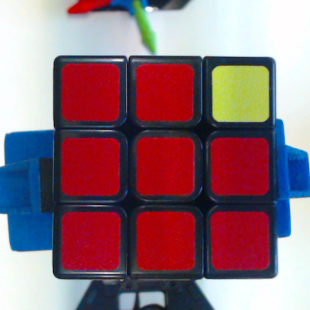
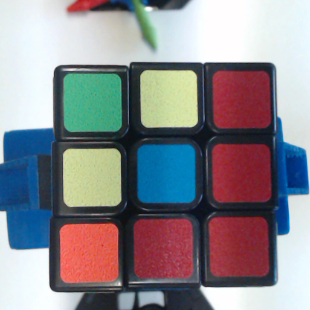
[LAB] 12.01.23 new min/max alg (buggy)

diff --git a/scripts/clean.py b/scripts/clean.py
@@ -29,7 +29,7 @@ def image_processing(i, img):
     if show_image_processing:
         if verbosity:
             cv2.imshow("Input " + str(Color(i)), img)
-            
+
         cv2.destroyAllWindows()
 
     ''' Stickers (Colour) search and binarisation via HSV channel '''
@@ -43,7 +43,7 @@ def image_processing(i, img):
     if show_image_processing:
         if verbosity:
             cv2.imshow("OR: " + str(Color(i)), bitwiseOr)
-            
+
         cv2.destroyAllWindows()
 
     ''' perform morphological filter (Erosion / Dilation) '''
@@ -67,7 +67,8 @@ def hsv(img_in, string, hsv_trackbar, hMin, hMax, sMin, sMax, vMin, vMax):
     """ Convert from RGB Image to HSV"""
     hsv_coloured = cv2.cvtColor(img_in, cv2.COLOR_BGR2HSV)
     if show_hsv:
-        if verbosity:cv2.imshow("HSV Image: " + string, hsv_coloured)
+        if verbosity:
+            cv2.imshow("HSV Image: " + string, hsv_coloured)
         # 
         cv2.destroyAllWindows()
 
@@ -100,7 +101,8 @@ def hsv(img_in, string, hsv_trackbar, hMin, hMax, sMin, sMax, vMin, vMax):
         mask = cv2.inRange(hsv_coloured, lower, upper)
         # mask1 = cv2.bitwise_not(mask1)
         if show_hsv:
-            if verbosity:cv2.imshow("Mask. " + string, mask)
+            if verbosity:
+                cv2.imshow("Mask. " + string, mask)
 
         # Defining the kernel size
         kernelSize = 1
@@ -114,7 +116,6 @@ def hsv(img_in, string, hsv_trackbar, hMin, hMax, sMin, sMax, vMin, vMax):
         if hsv_trackbar:
             k = cv2.waitKey(1) & 0xFF
             if k == 27:
-                
                 return medianBlurred_mask
         else:
             return medianBlurred_mask
@@ -123,7 +124,7 @@ def hsv(img_in, string, hsv_trackbar, hMin, hMax, sMin, sMax, vMin, vMax):
 
 def morphological(img_bitwise, i):
     # perform erosion on the image
-    kernel_size = 15
+    kernel_size = 20
     kernel = np.ones((kernel_size, kernel_size), np.uint8)
     img_erosion = cv2.erode(img_bitwise, kernel, iterations=1)
     if show_morphological:
@@ -131,17 +132,17 @@ def morphological(img_bitwise, i):
             cv2.imshow("Erosion: " + str(Color(i)), img_erosion)
 
     # perform dilation on the image
-    kernel_size = 10
+    kernel_size = 20
     kernel = np.ones((kernel_size, kernel_size), np.uint8)
     img_dilation = cv2.dilate(img_erosion, kernel, iterations=1)
     if show_morphological:
-        if verbosity:cv2.imshow("Dilation: " + str(Color(i)), img_dilation)
-        # 
+        if verbosity:
+            cv2.imshow("Dilation: " + str(Color(i)), img_dilation)
         cv2.destroyAllWindows()
     return img_erosion
 
 
-def find_cube_pos(i, img_input, img_cont):
+def find_sticker_pos(i, img_input, img_cont):
     all_cont = []
     img_draw = img_input.copy()
     img_drawing = img_input.copy()
@@ -232,21 +233,21 @@ def find_cube_pos(i, img_input, img_cont):
             cv2.circle(img_drawing, (cX, cY), 3, (0, 0, 0), -1)  # draw circle (center)
             cv2.putText(img_drawing, str(no_sticker), (cX - 20, cY - 20), cv2.FONT_HERSHEY_TRIPLEX, 0.5,
                         (250, 250, 100), 1)
-            if verbosity: print("No Sticker: " + str(no_sticker) + " cx: " + str(cX) + " cY: " + str(
-                cY) + " aspectratio " + str(
-                aspect_ratio))
+            if verbosity:
+                print("No Sticker: " + str(no_sticker) + " cx: " + str(cX) + " cY: " + str(cY) + " aspectratio " + str(
+                    aspect_ratio))
             no_sticker += 1
-
     if no_sticker != 0:
         cv2.imshow("Contours with good conditions", img_drawing)
 
         # Sorting the x-coordinates of the contours
         result_x = sorted(conturen, key=lambda l: l[0])
-        if verbosity: print("Sorted center-X coordinates: ", result_x)
-
+        if verbosity:
+            print("Sorted center-X coordinates: ", result_x)
         # Sorting the x-coordinates of the contours
         result_y = sorted(conturen, key=lambda l: l[1])
-        if verbosity: print("Sorted center-Y coordinates: ", result_y)
+        if verbosity:
+            print("Sorted center-Y coordinates: ", result_y)
 
         # calculate the Median of the center coordinates, width and height of the contours
         cX_median = np.median(cx_values)
@@ -256,15 +257,18 @@ def find_cube_pos(i, img_input, img_cont):
 
         # check if the contours have neighbours in the x-coordinate
         index_contour_x = nearest_contours(result_x, cX_median, width_median, 0)
-        if verbosity: print("index", index_contour_x)
+        if verbosity:
+            print("index", index_contour_x)
 
         # check if the contours have neighbours in the y-coordinate
         index_contour_y = nearest_contours(result_y, cY_median, height_median, 1)
-        if verbosity: print("index y", index_contour_y)
+        if verbosity:
+            print("index y", index_contour_y)
 
         # write the neighbour contours in an array
         result = set(index_contour_x + index_contour_y)
-        if verbosity: print("Result", result)
+        if verbosity:
+            print("Result", result)
 
         image_stickers_binary = np.zeros((img_draw.shape[0], img_draw.shape[1], 1), dtype=np.uint8)
 
@@ -305,14 +309,15 @@ def find_cube_pos(i, img_input, img_cont):
                 cv2.circle(img_draw, (cX, cY), 3, (0, 0, 0), -1)  # draw circle (center)
                 cv2.putText(img_draw, str(no_sticker), (cX - 20, cY - 20), cv2.FONT_HERSHEY_TRIPLEX, 0.5,
                             (250, 250, 100), 1)
-                if verbosity: print("No Sticker: " + str(no_sticker) + " cx: " + str(cX) + " cY: " + str(
-                    cY) + " Aspect Ratio " + str(
-                    aspect_ratio))
+                if verbosity:
+                    print("No Sticker: " + str(no_sticker) + " cx: " + str(cX) + " cY: " + str(
+                        cY) + " Aspect Ratio " + str(aspect_ratio))
 
                 cv2.rectangle(image_stickers_binary, (x, y), (x + w, y + h), 255, 2)  # draw bounding box
 
-        if verbosity:cv2.imshow("Neighbour Contours Image", img_draw)
-        # cv2.imshow("Neighbour Contours Binary Image", image_stickers_binary)
+        if verbosity:
+            cv2.imshow("Neighbour Contours Image", img_draw)
+        cv2.imshow("Neighbour Contours Binary Image", image_stickers_binary)
 
         cx_median = np.median(cx_values)
         cy_median = np.median(cy_values)
@@ -320,7 +325,7 @@ def find_cube_pos(i, img_input, img_cont):
         if verbosity:
             print("cx median", cx_median)
             print("cy median", cy_median)
-            
+
         # cv2.destroyAllWindows()
         return cx_values, cy_values, width_values, height_values, image_stickers_binary, rect_sticker
 
@@ -360,14 +365,16 @@ def roi_cube(i, img_in_bgr, image_stickers_binary, cX_values, cY_values, width_v
     # Median of all center values
     cX_Median = np.median(cX_values)
     cY_Median = np.median(cY_values)
-    if verbosity: print("Cx_median", cX_Median)
-    if verbosity: print("Cy_median", cY_Median)
+    if verbosity:
+        print("Cx_median", cX_Median)
+        print("Cy_median", cY_Median)
 
     # deviation of the width and height values of all contours
     cX_deviation = np.median(width_values)
     cY_deviation = np.median(height_values)
-    if verbosity: print("Cx_deviation", cX_deviation)
-    if verbosity: print("Cy_deviation", cY_deviation)
+    if verbosity:
+        print("Cx_deviation", cX_deviation)
+        print("Cy_deviation", cY_deviation)
 
     # calculate the start- and end-x values of the roi cube
     factor = 2.8
@@ -411,6 +418,46 @@ def roi_cube(i, img_in_bgr, image_stickers_binary, cX_values, cY_values, width_v
         cv2.imshow("ROI BGR: " + str(Color(i)), img_roi)
 
 
+def get_tilt(cY, cX, w_val, h_val):
+    """
+    sums smallest point distances in x, y directions for all points
+    returns tilt-per-sticker in pixels
+    """
+    tilt_y, tilt_x, step = 0, 0, 0
+
+    # get point list
+    pts = []
+    for i in range(len(cY)):
+        x, y = cX[i], cY[i]
+        pts.append([x, y])
+
+    # iterate every point distance
+    dx1, dy1, sx1, sy1 = [], [], [], []
+    for x1, y1 in pts:
+        dx2, dy2, sx2, sy2 = [], [], [], []
+        for x2, y2 in pts:
+            if (x1, y1) != (x2, y2):
+                diff_x = x1 - x2 if y2 > y1 else x2 - x1
+                diff_y = y1 - y2 if x2 > x1 else y2 - y1
+                dx2.append(diff_x)
+                dy2.append(diff_y)
+        mdx = np.mean([d for d in dx2 if abs(d) <= w_val / 2])
+        mdy = np.mean([d for d in dy2 if abs(d) <= h_val / 2])
+        # TODO (main): distance values dont work for slanted cube
+        sx = np.min([d for d in dx2 if abs(d) > w_val / 2])
+        sy = np.min([d for d in dy2 if abs(d) > h_val / 2])
+        dx1.append(mdx)
+        dy1.append(mdy)
+        sx1.append(abs(sx))
+        sy1.append(abs(sy))
+    tilt_x = np.mean(dx1)
+    tilt_y = np.mean(dy1)
+    step_x = np.min([d for d in sx1 if w_val / 2 < abs(d) < w_val * 2.5])
+    step_y = np.min([d for d in sy1 if h_val / 2 < abs(d) < h_val * 2.5])
+
+    return tilt_y, tilt_x, step_y, step_x
+
+
 def min_max_coordinates(i, copy_img, cX_values, cY_values, width_values, height_values, rect_sticker):
     img_in_bgr = copy_img.copy()
     # calculate mean width and height values
@@ -426,45 +473,58 @@ def min_max_coordinates(i, copy_img, cX_values, cY_values, width_values, height_
     max_cY = float(max(cY_values))
 
     # calculate the stickers center position above min-cx, min-cy, max-cx, max-cy
-    step_x = mean_width * 1.8
-    step_y = mean_height * 1.8
-    point = []
+    step_x = mean_width * 2
+    step_y = mean_height * 2
+    points = []
     stickers_rectangle = []
-    for number in range(0, 9):
-        if number == 0:
-            point.append([min_cX, min_cY])
-        if number == 1:
-            point.append([min_cX + step_x, min_cY])
-        if number == 2:
-            point.append([max_cX, min_cY])
-        if number == 3:
-            point.append([min_cX, min_cY + step_y])
-        if number == 4:
-            point.append([min_cX + step_x, min_cY + step_y])
-        if number == 5:
-            point.append([max_cX, min_cY + step_y])
-        if number == 6:
-            point.append([min_cX, max_cY])
-        if number == 7:
-            point.append([min_cX + step_x, max_cY])
-        if number == 8:
-            point.append([max_cX, max_cY])
+
+    tilt_y, tilt_x, step_y, step_x = get_tilt(cY_values, cX_values, mean_width, mean_height)
+
+    for y in range(0, 3):
+        for x in range(0, 3):
+            a = int(min_cX + step_x * x)
+            b = int(min_cY + step_y * y)
+            points.append([a, b])
+    """
+    for n in range(0, 9):
+        if n == 0:
+            points.append([min_cX, min_cY])
+        if n == 1:
+            points.append([min_cX + step_x, min_cY])
+        if n == 2:
+            points.append([max_cX, min_cY])
+        if n == 3:
+            points.append([min_cX, min_cY + step_y])
+        if n == 4:
+            points.append([min_cX + step_x, min_cY + step_y])
+        if n == 5:
+            points.append([max_cX, min_cY + step_y])
+        if n == 6:
+            points.append([min_cX, max_cY])
+        if n == 7:
+            points.append([min_cX + step_x, max_cY])
+        if n == 8:
+            points.append([max_cX, max_cY])
+    """
 
     # calculate the contours of the stickers
     fact_width = mean_width / 4.5
     fact_height = mean_height / 4.5
-    for number in range(0, 9):
-        stickers_rectangle.append([round(point[number][0] - fact_width), round(point[number][1] - fact_height),
-                                   round(point[number][0] + fact_width), round(point[number][1] + fact_height)])
+    for n in range(0, 9):
+        stickers_rectangle.append([round(points[n][0] - fact_width),
+                                   round(points[n][1] - fact_height),
+                                   round(points[n][0] + fact_width),
+                                   round(points[n][1] + fact_height)])
 
     # draw the stickers in the image
     for stickers in stickers_rectangle:
         x1, y1, x2, y2 = stickers
         cv2.rectangle(img_in_bgr, (int(x1), int(y1)), (int(x2), int(y2)), (180, 95, 180), 2)
-        #if verbosity:
-        cv2.imshow("Region for color samples: " + str(Color(i)), img_in_bgr)
+        if verbosity:
+            cv2.imshow("Region for color samples: " + str(Color(i)), img_in_bgr)
+            cv2.imshow("Region for color samples: " + str(Color(i)), img_in_bgr)
     cv2.waitKey(0)
-            
+
     return stickers_rectangle
 
 
@@ -486,7 +546,7 @@ def color_samples(i, copy_img, stickers, data_arr):
 
         data_arr[i][no_sticker][0] = start_x + (end_x - start_x) / 2  # x-Pos
         data_arr[i][no_sticker][1] = start_y + (end_y - start_y) / 2  # y-Pos
-        data_arr[i][no_sticker][2] = average_color[0] * 100 / 255
+        data_arr[i][no_sticker][2] = average_color[0]  # * 100 / 255
         data_arr[i][no_sticker][3] = average_color[1] - 128
         data_arr[i][no_sticker][4] = average_color[2] - 128
     return data_arr
@@ -503,7 +563,7 @@ def sticker_colours(data_arr):
             value = data_arr[i][r][2:]  # current sticker color info
             idx, color = find_nearest(centers, value)
             CubeDefStr += get_chars(idx)
-    
+
     cv2.destroyAllWindows()
     return_val = 0  # placeholder
     return return_val, CubeDefStr
@@ -542,9 +602,10 @@ def scan_cube():
         # perform binarisation via HSV and morphological filter
         img_morph = image_processing(i, img_in)
         # find cube position and stickers
-        cX, cY, width_values, height_values, image_stickers_binary, rect_sticker = find_cube_pos(i, img_in, img_morph)
+        cX, cY, width_values, height_values, image_stickers_binary, rect_sticker = find_sticker_pos(i, img_in,
+                                                                                                    img_morph)
         # draw roi cube
-        roi_cube(i, img_in, image_stickers_binary, cX, cY, width_values, height_values)
+        # roi_cube(i, img_in, image_stickers_binary, cX, cY, width_values, height_values)
         # if not all stickers could be recognised --> find min and max x and y- coordinates of the stickers
         stickers = min_max_coordinates(i, copy_img, cX, cY, width_values, height_values, rect_sticker)
         cv2.destroyAllWindows()
@@ -561,4 +622,3 @@ if __name__ == "__main__":
     _, cube = scan_cube()
     print(cube)
     print "scan result: %s (%ss)" % (cube, len(cube))
-    

diff --git a/scripts/solver_server.py b/scripts/solver_server.py
@@ -14,13 +14,14 @@ def check_solution(solStr):
         print('no solution')
         solution = solStr
         movecount = 0
-    elif solStr[len(solStr) - 2:] == 'f)':
+    elif solStr[-2:] == 'f)':
         print "\nSolution found: %s" % (solStr)
-        movecount = int(solStr[solStr.find('(') + 1: len(solStr) - 2])
-        solution = solStr[: len(solStr) - 6]
+        bracket = solStr.find('(')
+        movecount = int(solStr[bracket + 1: solStr.rindex('f')])
+        solution = solStr[: bracket - 1]
     else:
         movecount = 0
-        solution = solStr + '\nMaybe the cube faces were not oriented correctly.'
+        solution = solStr + ' \nMaybe the cube faces were not oriented correctly.'
     return solution, movecount
 
 
